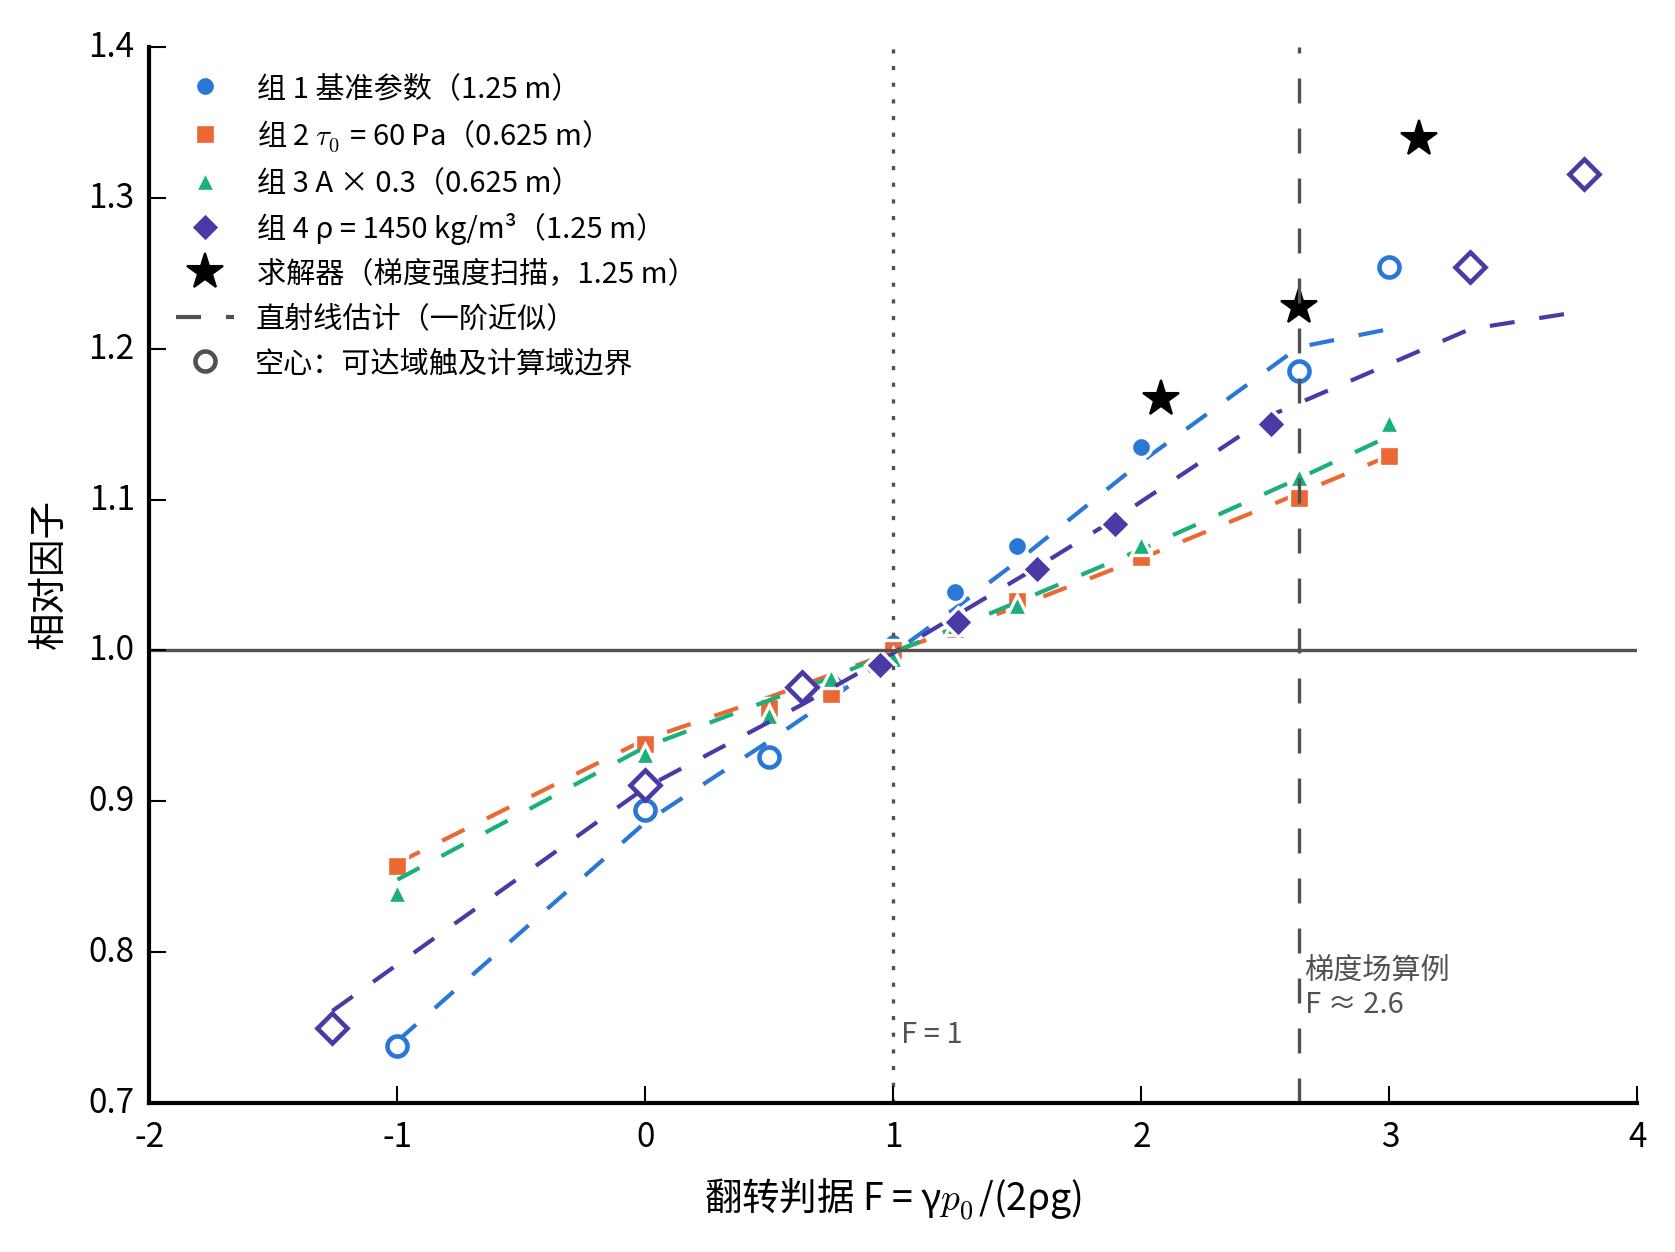
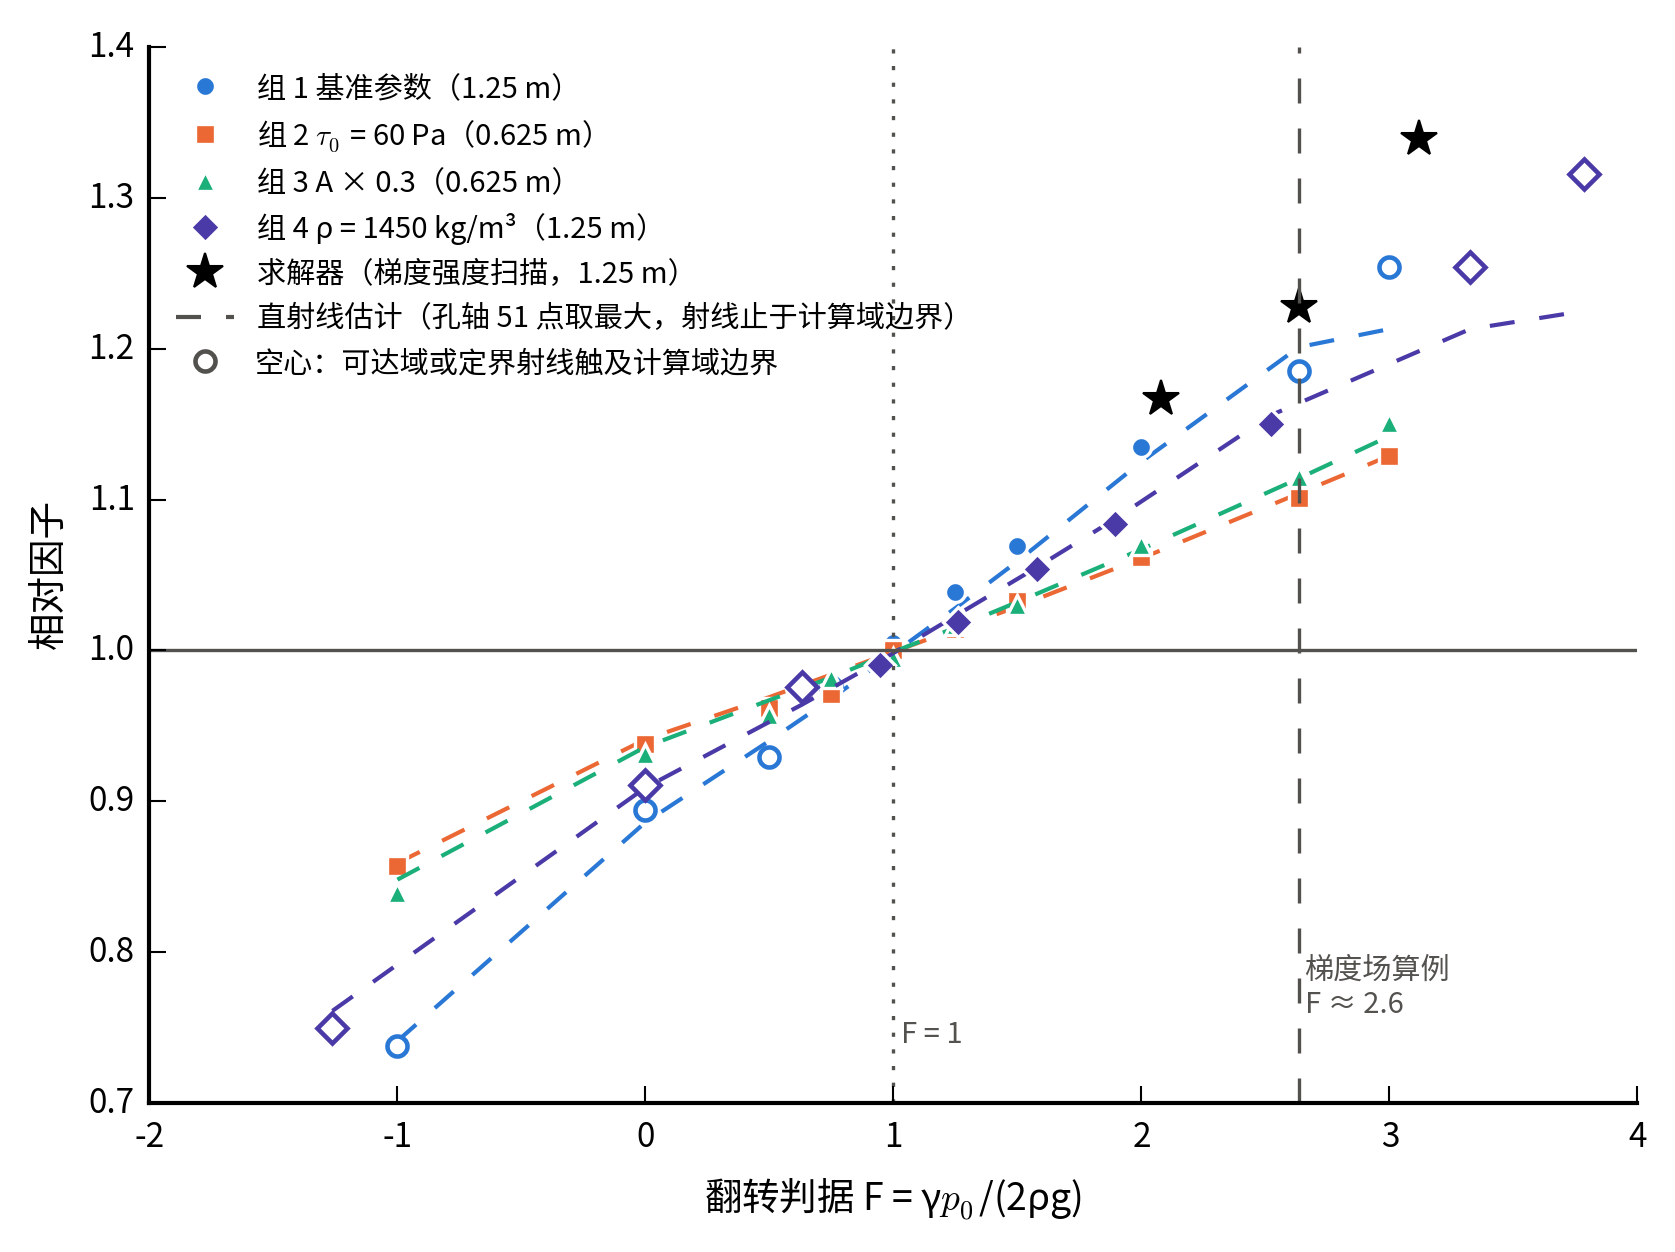
figure 4.5-2: ray legend states its definition (51 points along the hole, stopped at the box)

Changed region(s): [[0.1552, 0.2181, 0.5588, 0.3115]]

diff --git a/scripts/figures_ch4/fig_4_5_2.py b/scripts/figures_ch4/fig_4_5_2.py
@@ -63,8 +63,8 @@ def main():
     ax.axvline(2.635, color=K.INK2, lw=0.8, ls="--")
     ax.text(2.66, 0.76, u"梯度场算例\nF ≈ 2.6", fontsize=7, color=K.INK2)
     ax.text(1.03, 0.74, u"F = 1", fontsize=7, color=K.INK2)
-    ax.plot([], [], "--", color=K.INK2, lw=1.0, label=u"直射线估计（一阶近似）")
-    ax.plot([], [], "o", mfc="white", mec=K.INK2, mew=1.1, ms=5, label=u"空心：可达域触及计算域边界")
+    ax.plot([], [], "--", color=K.INK2, lw=1.0, label=u"直射线估计（孔轴 51 点取最大，射线止于计算域边界）")
+    ax.plot([], [], "o", mfc="white", mec=K.INK2, mew=1.1, ms=5, label=u"空心：可达域或定界射线触及计算域边界")
     ax.set_xlabel(u"翻转判据 F = γ$p_0$/(2ρg)")
     ax.set_ylabel(TERMS["rel_factor"])
     ax.legend(loc="upper left", frameon=False, fontsize=7, numpoints=1)

diff --git a/figures/ch4_draft/INDEX.md b/figures/ch4_draft/INDEX.md
@@ -117,3 +117,9 @@
 | 4.5-4 | 图面已符合清单（(b) 时间轴名“给定注浆量的注入时间”，下栏为 1.25 m 通道入口所需源压）；只改脚本说明中的“目标区”“φ” |
 | 4.5-5 | 图例改为“可达层面缺陷（不可达区）”“过程层面缺陷（锋面截断区）”（TERMS unreach_lvl、front_lvl）；下栏由设计域外浆量（m³/m）改为设计域外浆量占比（%，分母为计算域内非出浆单元浆量）；横轴“种子”改为“实现”；165 单元口径不变 |
 | 4.5-6 | 上排左补单块凸形块石对照（停注时充填域，K06），下左补其块石正下方 16 个单元已充填单元数与 4、8 邻接封闭分量单元数曲线，阴影标出 69%～79% 逐步填满；子图标题只写“累计注浆量占可达孔隙体积 X%”；“口袋”改为“凹形空间”（TERMS concave）；下右纵轴改为绕流空区单元数（凹形空间共 16 个），C 的致密包裹体为虚线；纵向参考改为块石底面 |
+
+## 第九轮补改（2026-10-15）
+
+| 图号 | 本轮改动 |
+|---|---|
+| 4.5-2 | 直射线虚线图例由“直射线估计（一阶近似）”改为“直射线估计（孔轴 51 点取最大，射线止于计算域边界）”。计算口径：`scripts/flip_criterion.py` V3 的 `ray_ratio(...)["ratio"]`（输出文件 rays 列）——起点为孔口至孔底等分的 51 个点（含两端），每点沿孔的上、下法线积分实际 λ(n)（不线性化）与位置势至 p₀，射线触及 60 × 60 m 计算域任一边界（含左右边界）即止，取各点向上、向下长度的最大值之比；无重力均质时按构造为 1，故直接作相对因子。与图 4.5-3 的口径（只取孔中点、不计左右边界，mid_free）不同，故括注；V3 场族中定界射线被截断的 F 以空心标记（与二维触边界合并标注，空心图例相应改为“可达域或定界射线触及计算域边界”）。数据不变 |
